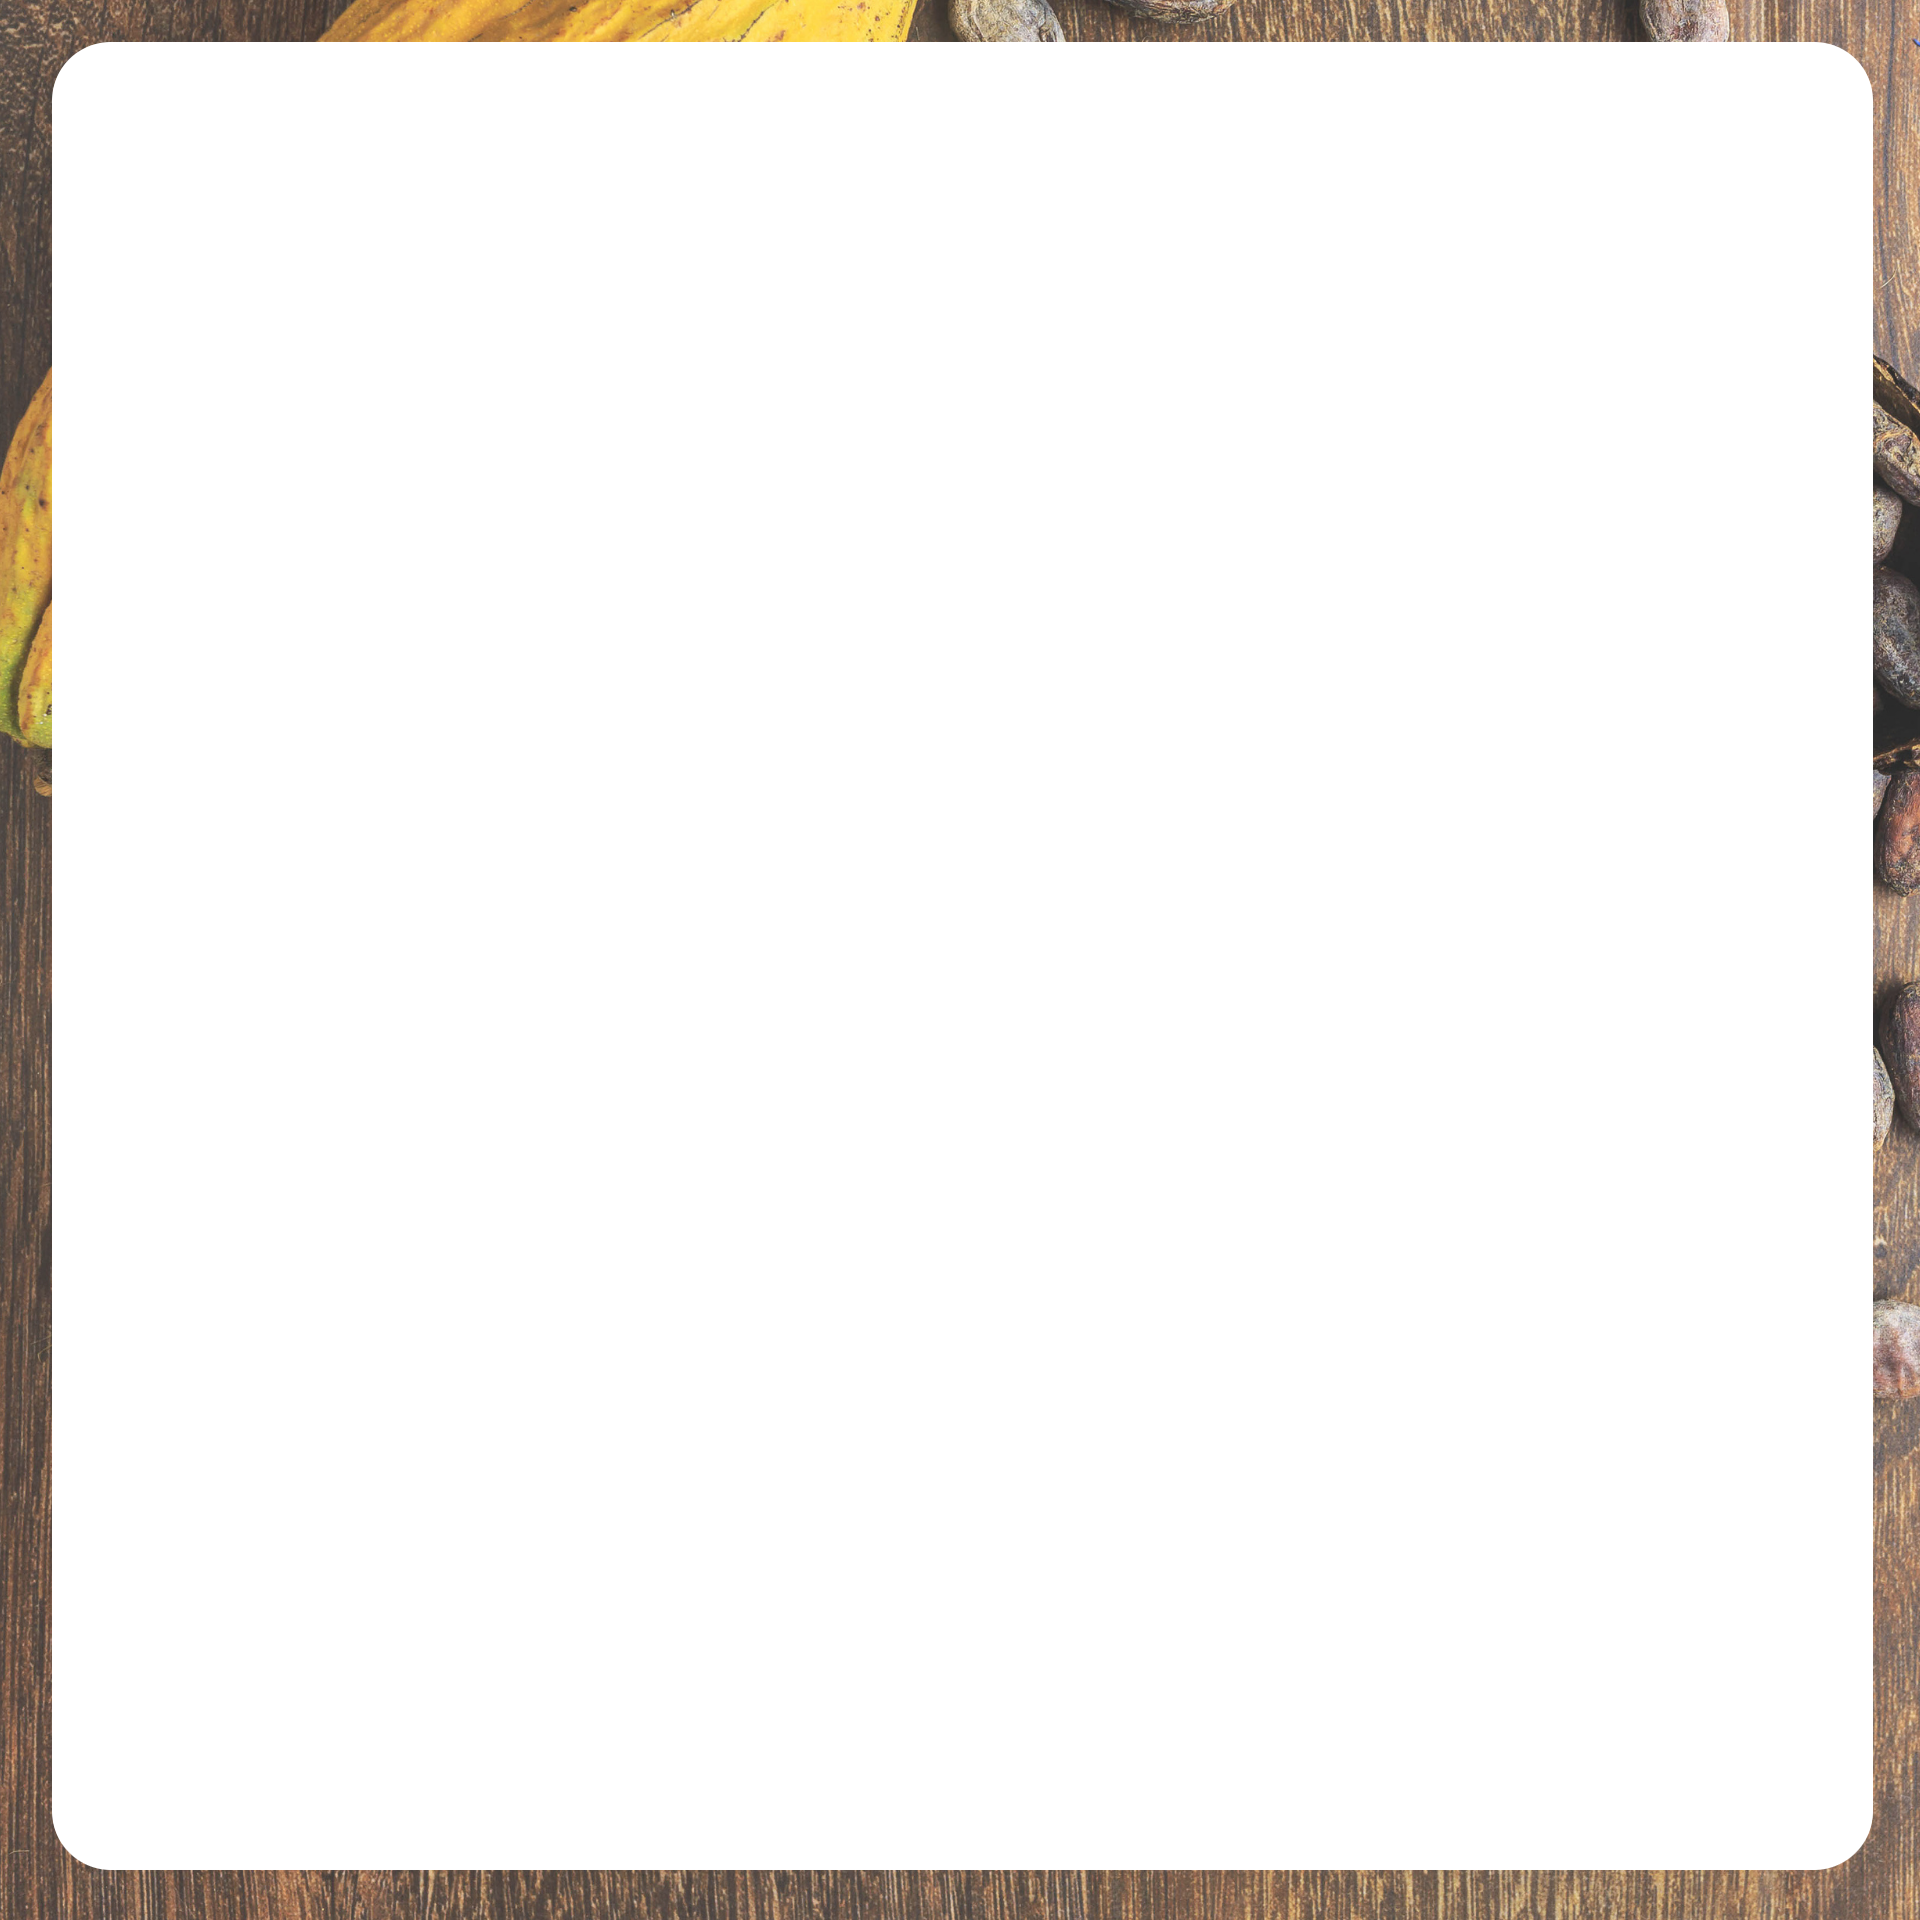
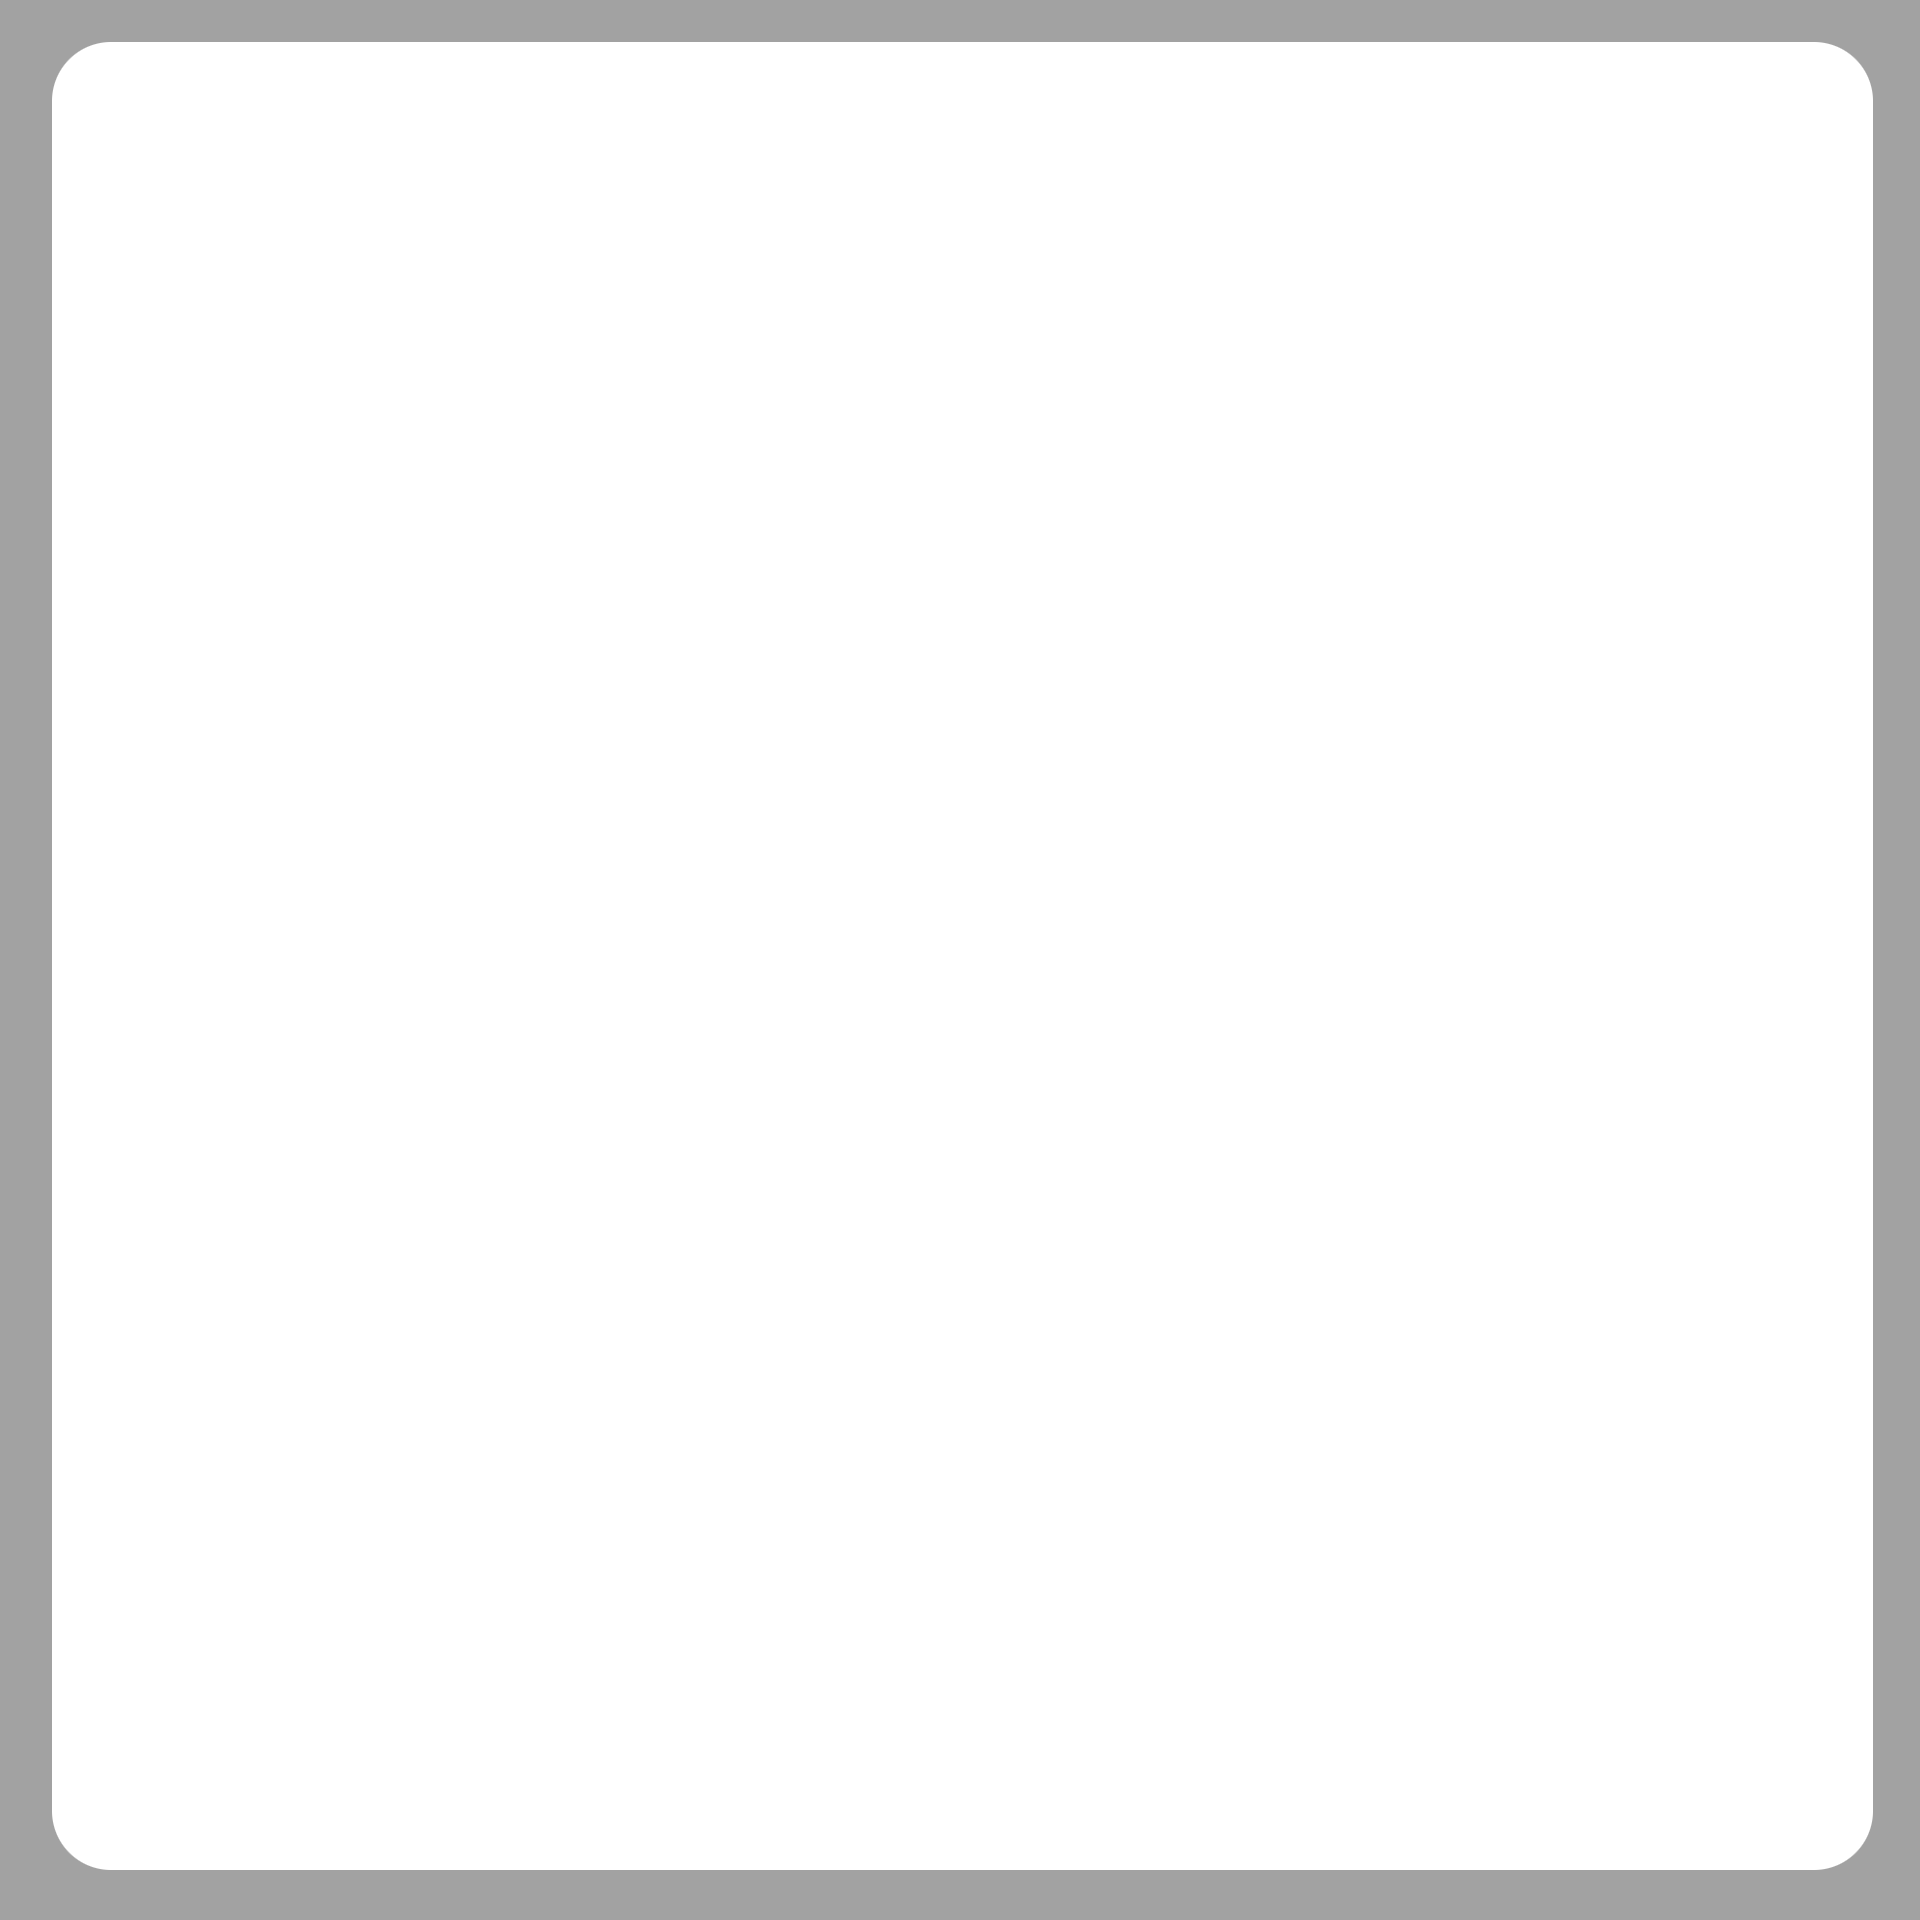
Estilo genérico concluído. WIP opções por digitação

Changed region(s): [[0.0, 0.0, 1.0, 1.0]]

diff --git a/web/votacao.js b/web/votacao.js
@@ -1,25 +1,46 @@
-const cpfInput = document.getElementById('cpfInput');
+// Personalize seu sistema alterando estas variáveis abaixo
+
+// Nomes das opções de votação. Observe que o número de itens nesta lista define o número de opções disponíveis na votação.
+const nomesFotos = [
+	"Café 01",
+	"Café 02",
+	"Café 03",
+	"Café 04",
+	"Café 05",
+	"Café 06",
+	"Café 07",
+	"Café 08",
+	"Café 09",
+	"Café 10"
+];
+// Ainda, modifique as imagens na pasta "imagens" para corresponder aos nomes e quantidade de opções aqui definidas.
+// Observe que, caso haja mais de 10 opções, a votação será feita por meio de digitação do número da opção, e não por botões numéricos.
+
+// Adicione os arquivos de imagens dos apoiadores aqui, separados por vírgula. Exemplo: "logo1.png","logo2.png"
+// Observe que a logo do IFRO já está inclusa automaticamente no index.html
+const logosApoiadores = [
+];
+
+//Tempos das telas em milissegundos
+var tempoPadrao = 25000;
+var tempoFim = 5000;
+
+//Conexão a servidor de concentração de votos
+const enderecoServidorNormal = "http://localhost/TotemVotacao/server/"; // Altere para o endereço do seu servidor se necessário
+const enderecoServidorFallback = "http://localhost/TotemVotacao/server/"; // Endereço de fallback caso o servidor principal não esteja acessível. Normalmente é o endereço localhost!
+
+/////////////////////////////////////////////////////////////////
+// Abaixo, código do sistema. Evite alterações se não souber o que está fazendo!
+const cpfInput = document.getElementById('cpfInput');
 const barraTimer = document.getElementById("timer");
 const avisoCPF = document.getElementById("avisoCPF");
-const imgFotoSelecionada = document.getElementById("fotoSelecionada");
-const nomesFotos = [
-	"Cacoal, aromas de época",
-	"Secagem do cacau",
-	"Raízes da esperança",
-	"Ouro nas mãos",
-	"O novo eldorado",
-	"Fases do cacau: Da flor ao chocolate",
-	"Exuberância efêmera",
-	"Duas metades",
-	"Com as mãos no café",
-	"Café na manhã"
-];
-const nomeFotoSelecionada = document.getElementById("nomeFotoSelecionada");
+const imgFotoSelecionada = document.getElementById("imagemSelecionada");
+const nomeFotoSelecionada = document.getElementById("nomeImagemSelecionada");
 const divAlertaFallback = document.getElementById("alertaFallback");
+const divTecladoOpcoes = document.getElementById("tecladoOpcoes");
+const divApoiadores = document.getElementById("apoiadores");
 
 // Verifica se o servidor está acessível
-const enderecoServidorNormal = "http://localhost/TotemVotacao/server/"; // Altere para o endereço do seu servidor se necessário
-const enderecoServidorFallback = "http://localhost/TotemVotacao/server/"; // Endereço de fallback caso o servidor principal não esteja acessível
 var enderecoServidor = enderecoServidorNormal; // Variável para armazenar o endereço do servidor
 
 function verificarServidor() {
@@ -46,8 +67,26 @@ verificarServidor();
 
 var timerRetornar = null;
 var telaAtiva = "comecar";
-var tempoPadrao = 20000;
-var tempoFim = 5000;
+var numOpcoes = nomesFotos.length;
+var votacaoDireta = (numOpcoes <= 10);
+if (votacaoDireta) {
+	for (let i = 0; i < numOpcoes; i++) {
+		const botao = document.createElement("button");
+		botao.id = "botaoVoto" + (i === 9 ? '0' : (i + 1).toString()); // Ajusta o ID para que a opção 0 seja o botão '0'
+		botao.textContent = (i === 9 ? '0' : (i + 1).toString());
+		botao.onclick = () => votar(i === 9 ? '0' : (i + 1).toString()); // Ajusta a função para que a opção 0 seja o voto '0'
+		divTecladoOpcoes.appendChild(botao);
+	}
+}
+
+var numApoiadores = logosApoiadores.length;
+for (let i = 0; i < numApoiadores; i++) {
+	const imgLogo = document.createElement("img");
+	imgLogo.src = logosApoiadores[i];
+	imgLogo.alt = "Apoiador " + (i + 1);
+	imgLogo.className = "logo";
+	divApoiadores.appendChild(imgLogo);
+}
 
 // Função para adicionar números ao campo de CPF
 function adicionarNumero(numero) {
@@ -105,10 +144,15 @@ function alertarCPF() {
 // Função para avançar para a votação
 function votar(opcao) {
 	if (opcao) {
-		document.getElementById('opcaoSelecionada').textContent = opcao;
-		imgFotoSelecionada.src = `fotos/${opcao}.jpg`; // Atualiza a imagem com base na opção selecionada
+		console.log(typeof opcao);
+		if (opcao == 0) {
+			opcao = 10; // Opção 0 corresponde à foto 10
+		}
+		opcao -= 1; // Ajusta o índice para começar em 0
+		document.getElementById('opcaoSelecionada').textContent = (opcao + 1);
+		imgFotoSelecionada.src = `imagens/${opcao + 1}.jpg`; // Atualiza a imagem com base na opção selecionada
 		nomeFotoSelecionada.textContent = '"' + nomesFotos[opcao] + '"'; // Atualiza o nome da foto
-		ativarTela("confirmar", 30000);
+		ativarTela("confirmar");
 	} else {
 		const cpfValido = validaCPF(document.getElementById('cpfInput').value);
 		if (cpfValido) {
@@ -125,12 +169,12 @@ function votar(opcao) {
 						avisoCPF.style.display = "none";
 					}
 					travarTela("cpf", false);
-					ativarTela("votacao", 30000);
+					ativarTela("votacao");
 				})
 				.catch(error => {
 					console.error('Erro ao consultar o servidor:', error);
 					travarTela("cpf", false);
-					ativarTela("votacao", 30000);
+					ativarTela("votacao");
 				});
 		}
 	}
@@ -202,6 +246,12 @@ function resetarTimer(argTempo = tempoPadrao) {
 	barraTimer.style.animationPlayState = "running";
 	barraTimer.style.height = "1rem";
 }
+function simulacaoMouseAtivo(argElemento) {
+    argElemento.classList.add("active");
+	setTimeout(() => {
+		argElemento.classList.remove("active");
+	}, 150);
+}
 function computarTecla(event) {
 	console.log(event.key || event.code);
 	switch (telaAtiva) {
@@ -212,9 +262,13 @@ function computarTecla(event) {
 			if (event.key >= '0' && event.key <= '9') {
 				event.preventDefault();
 				adicionarNumero(event.key);
+				simulacaoMouseAtivo(document.getElementById('botaoCPF' + event.key));
 			} else if (event.key === 'Backspace') {
+				event.preventDefault();
 				limpar();
 			} else if (event.key === 'Enter') {
+				event.preventDefault();
+				simulacaoMouseAtivo(document.getElementById('btnVotar'));
 				votar();
 			}
 		} break;
@@ -223,19 +277,24 @@ function computarTecla(event) {
 				event.preventDefault();
 				let voto = event.key;
 				votar(voto);
+				simulacaoMouseAtivo(document.getElementById('botaoVoto' + event.key));
 			}
 		} break;
 		case "confirmar": {
 			event.preventDefault();
 			if (event.key === 'Enter') {
 				confirmarVoto();
+				simulacaoMouseAtivo(document.getElementById('btnConfirmarVoto'));
 			} else {
 				cancelarVoto();
+				simulacaoMouseAtivo(document.getElementById('btnCancelarVoto'));
 			}
 		} break;
 	}
 	if (telaAtiva !== "fim") {
 		resetarTimer();
+	} else {
+		event.preventDefault();
 	}
 }
 

diff --git a/web/index.html b/web/index.html
@@ -2,7 +2,7 @@
 <html lang="pt-BR">
 	<head>
 		<meta charset='utf-8'>
-		<title>Votação IFRO</title>
+		<title>Vox Populi - IFRO</title>
 		<meta name='viewport' content='width=device-width, initial-scale=1'>
 		<link rel='stylesheet' type='text/css' media='screen' href='estilo.css'>
 	</head>
@@ -10,14 +10,10 @@
 		<div id="wrapper">
 			<div id="comecar" onclick="reiniciar()">
 				<fieldset>
-					<img src="logo_cafecau.png" alt="Cafecau" class="logo">
+					<img src="logo_evento.png" alt="Evento" class="logo">
 					<p class="piscar">Aperte para começar!</p>
-					<div class="apoiadores">
-						<img src="logo_sicoob_credip.png" alt="Sicoob Credip" class="logo">
+					<div class="apoiadores" id="apoiadores">
 						<img src="logo_ifro.png" alt="IFRO" class="logo">
-						<img src="logo_pmc.png" alt="Prefeitura Municipal de Cacoal" class="logo">
-						<img src="logo_semc.png" alt="Secretaria Municipal de Cultura de Cacoal" class="logo">
-						<img src="logo_comunica.PNG" alt="Comunica Estratégia e Marketing" class="logo">
 					</div>
 				</fieldset>
 			</div>
@@ -26,16 +22,16 @@
 					<p>Digite seu CPF:</p>
 					<input type="text" id="cpfInput" placeholder="000.000.000-00" maxlength="14" onkeypress="mascara(this, '###.###.###-##');">
 					<div id="teclado">
-						<button onclick="adicionarNumero('1')">1</button>
-						<button onclick="adicionarNumero('2')">2</button>
-						<button onclick="adicionarNumero('3')">3</button>
-						<button onclick="adicionarNumero('4')">4</button>
-						<button onclick="adicionarNumero('5')">5</button>
-						<button onclick="adicionarNumero('6')">6</button>
-						<button onclick="adicionarNumero('7')">7</button>
-						<button onclick="adicionarNumero('8')">8</button>
-						<button onclick="adicionarNumero('9')">9</button>
-						<button onclick="adicionarNumero('0')">0</button>
+						<button id="botaoCPF1" onclick="adicionarNumero('1')">1</button>
+						<button id="botaoCPF2" onclick="adicionarNumero('2')">2</button>
+						<button id="botaoCPF3" onclick="adicionarNumero('3')">3</button>
+						<button id="botaoCPF4" onclick="adicionarNumero('4')">4</button>
+						<button id="botaoCPF5" onclick="adicionarNumero('5')">5</button>
+						<button id="botaoCPF6" onclick="adicionarNumero('6')">6</button>
+						<button id="botaoCPF7" onclick="adicionarNumero('7')">7</button>
+						<button id="botaoCPF8" onclick="adicionarNumero('8')">8</button>
+						<button id="botaoCPF9" onclick="adicionarNumero('9')">9</button>
+						<button id="botaoCPF0" onclick="adicionarNumero('0')">0</button>
 						<button onclick="limpar()">Limpar</button>
 					</div>
 					<button id="btnVotar" onclick="votar()" class="destaque">Avançar</button>
@@ -47,27 +43,18 @@
 						O CPF informado já possui um voto registrado! Vote abaixo para alterar o seu voto.
 					</div>
 					<p>Vote na sua foto preferida:</p>
-					<div class="opcoes">
-						<button onclick="votar('1')">1</button>
-						<button onclick="votar('2')">2</button>
-						<button onclick="votar('3')">3</button>
-						<button onclick="votar('4')">4</button>
-						<button onclick="votar('5')">5</button>
-						<button onclick="votar('6')">6</button>
-						<button onclick="votar('7')">7</button>
-						<button onclick="votar('8')">8</button>
-						<button onclick="votar('9')">9</button>
-						<button onclick="votar('0')">0</button>
+					<div class="opcoes" id="tecladoOpcoes">
+						<!-- Botões de opções serão gerados aqui via JavaScript -->
 					</div>
 				</fieldset>
 			</div>
 			<div id="confirmar" onclick="resetarTimer()">
 				<fieldset>
 					<p>Você votou na foto: <span id="opcaoSelecionada"></span></p>
-					<img src="#" alt="Foto selecionada" id="fotoSelecionada">
-					<p id="nomeFotoSelecionada"></p>
-					<button onclick="confirmarVoto()" class="destaque">Confirmar</button>
-					<button onclick="cancelarVoto()">Cancelar</button>
+					<img src="#" alt="Opção selecionada" id="imagemSelecionada">
+					<p id="nomeImagemSelecionada"></p>
+					<button id="btnConfirmarVoto" onclick="confirmarVoto()" class="destaque">Confirmar</button>
+					<button id="btnCancelarVoto" onclick="cancelarVoto()">Cancelar</button>
 				</fieldset>
 			</div>
 			<div id="fim">

diff --git a/web/estilo.css b/web/estilo.css
@@ -43,9 +43,9 @@ button, input[type="text"] {
 	width: 80%;
 }
 button {
-	background-color: #b19b8f;
+	background-color: #bbb;
 }
-button:active {
+button:active, button.active {
 	transition: 0s;
 	background-color: #000;
 	color: #FFF;
@@ -55,7 +55,7 @@ button.destaque {
 	margin: 1rem auto;
 	display: block;
 }
-button.destaque:active {
+button.destaque:active, button.destaque.active {
 	background-color: #080;
 	color: #FFF;
 }

diff --git a/server/index.php b/server/index.php
@@ -95,7 +95,7 @@ if (isset($_GET['voto'])) {
     }
     // Faz um backup do arquivo de votos
     if (file_exists($filePath)) {
-        copy($filePath, $filePath . ' - ' . $timestamp . '.bak');
+        copy($filePath, $filePath . ' - ' . date('YmdHis') . '.bak');
     }
     // Salva os votos atualizados
     file_put_contents($filePath, json_encode($votos, JSON_PRETTY_PRINT));
